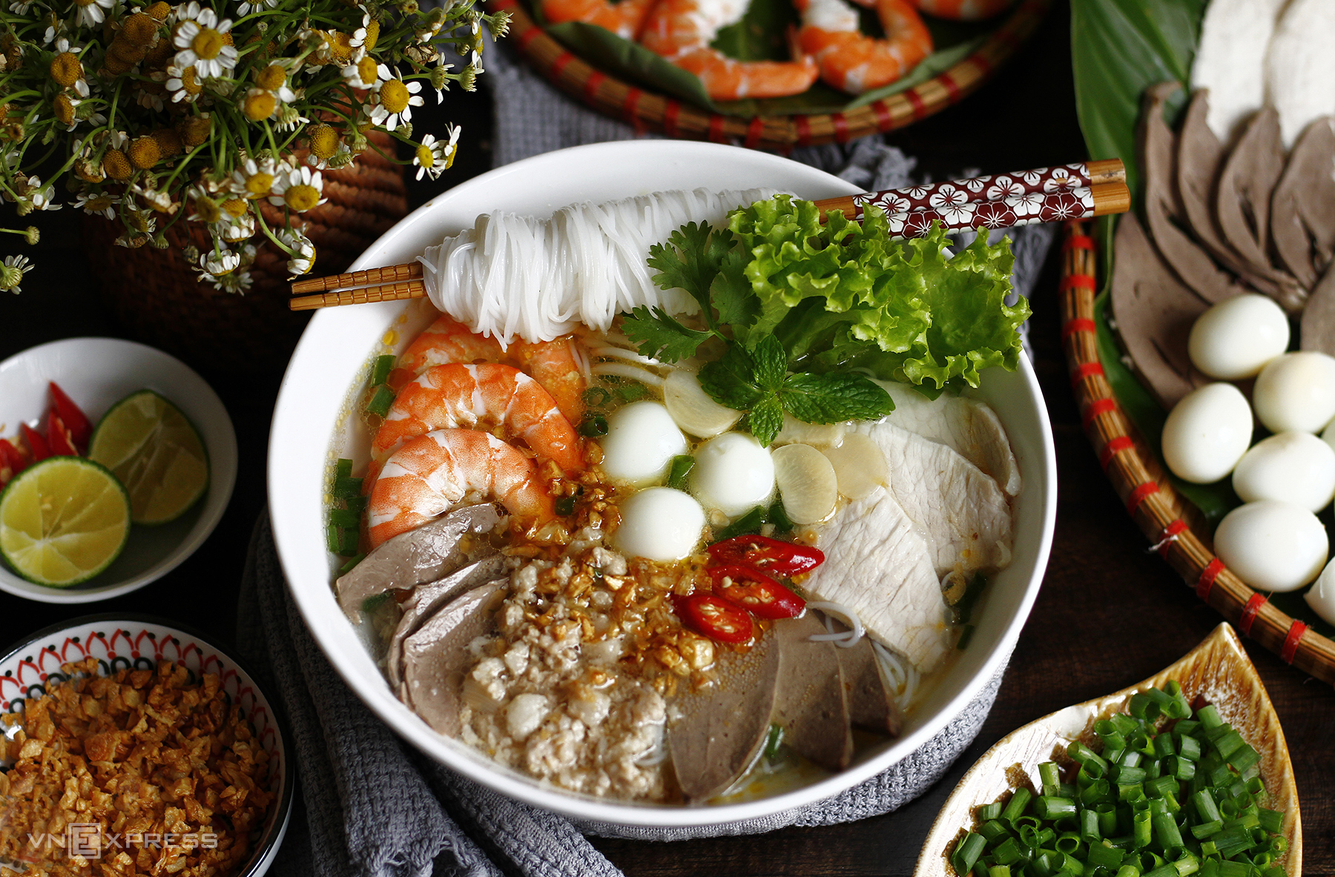
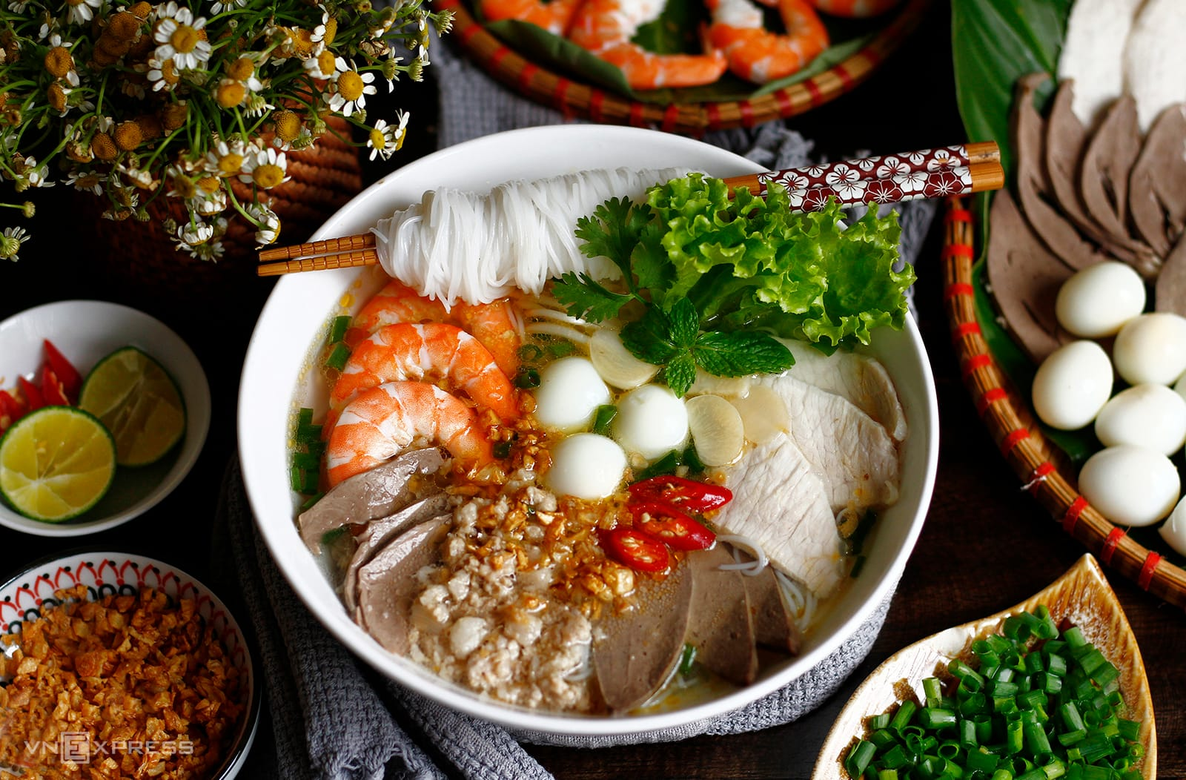
Fix broken images (Vercel 402): unoptimized images + compress 29 heavy files

diff --git a/next.config.ts b/next.config.ts
@@ -16,6 +16,8 @@ const nextConfig: NextConfig = {
     ];
   },
   images: {
+    // Served straight from /public: Vercel's free image-optimization quota returns 402 once used up
+    unoptimized: true,
     qualities: [75, 80, 85],
     formats: ['image/avif', 'image/webp'],
     deviceSizes: [360, 480, 640, 768, 1024, 1280, 1600],
